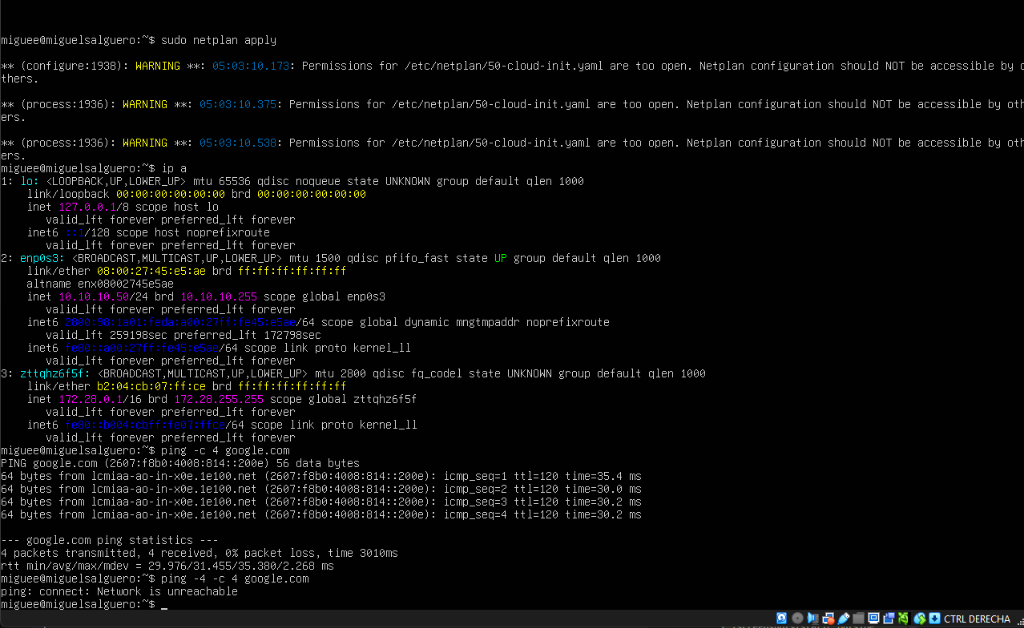
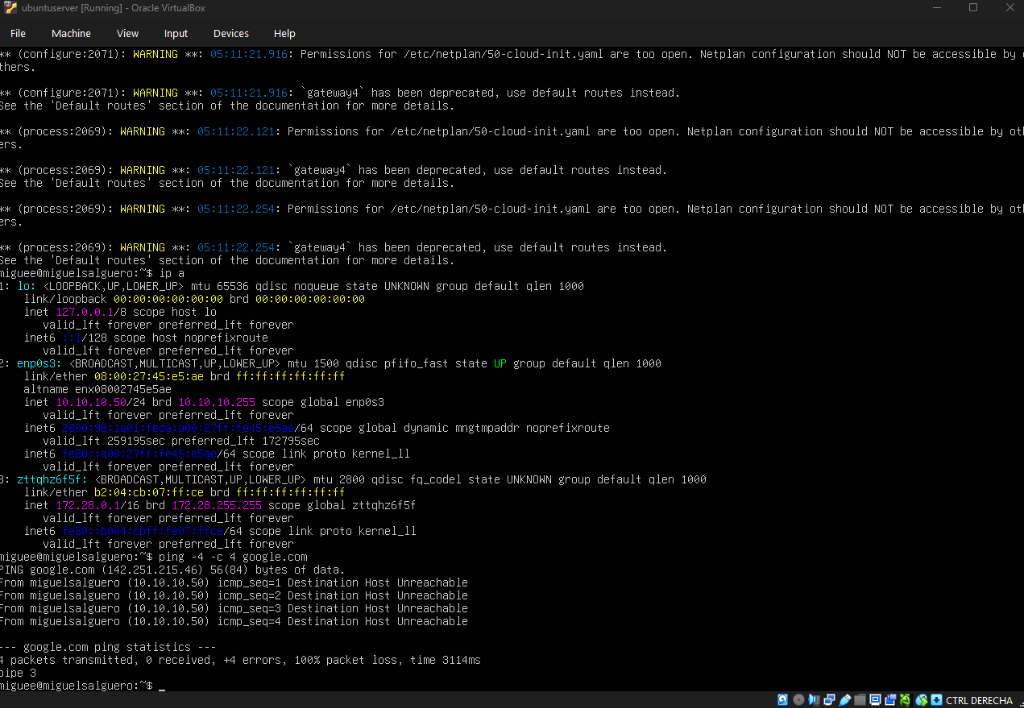
docs: update static_outside_subnet screenshot and documentation

Changed region(s): [[0.0, 0.0, 1.0, 1.0]]

diff --git a/README.md b/README.md
@@ -60,6 +60,6 @@ VM configured in **Bridge Mode** with a static IP within the hypervisor's subnet
 VM configured in **Bridge Mode** with a static IP outside the hypervisor's subnet (`10.10.10.0/24`):
 
 - **Assigned IP:** `10.10.10.50/24`
-- **Connectivity:** `ping -4 -c 4 google.com` failed with `Network is unreachable` as the IP cannot reach the default gateway.
+- **Connectivity:** `ping -4 -c 4 google.com` failed with `Destination Host Unreachable` (100% packet loss) as the IP cannot reach the default gateway.
 
 ![Static IP - Outside Subnet](./screenshots/static_outside_subnet.png)
